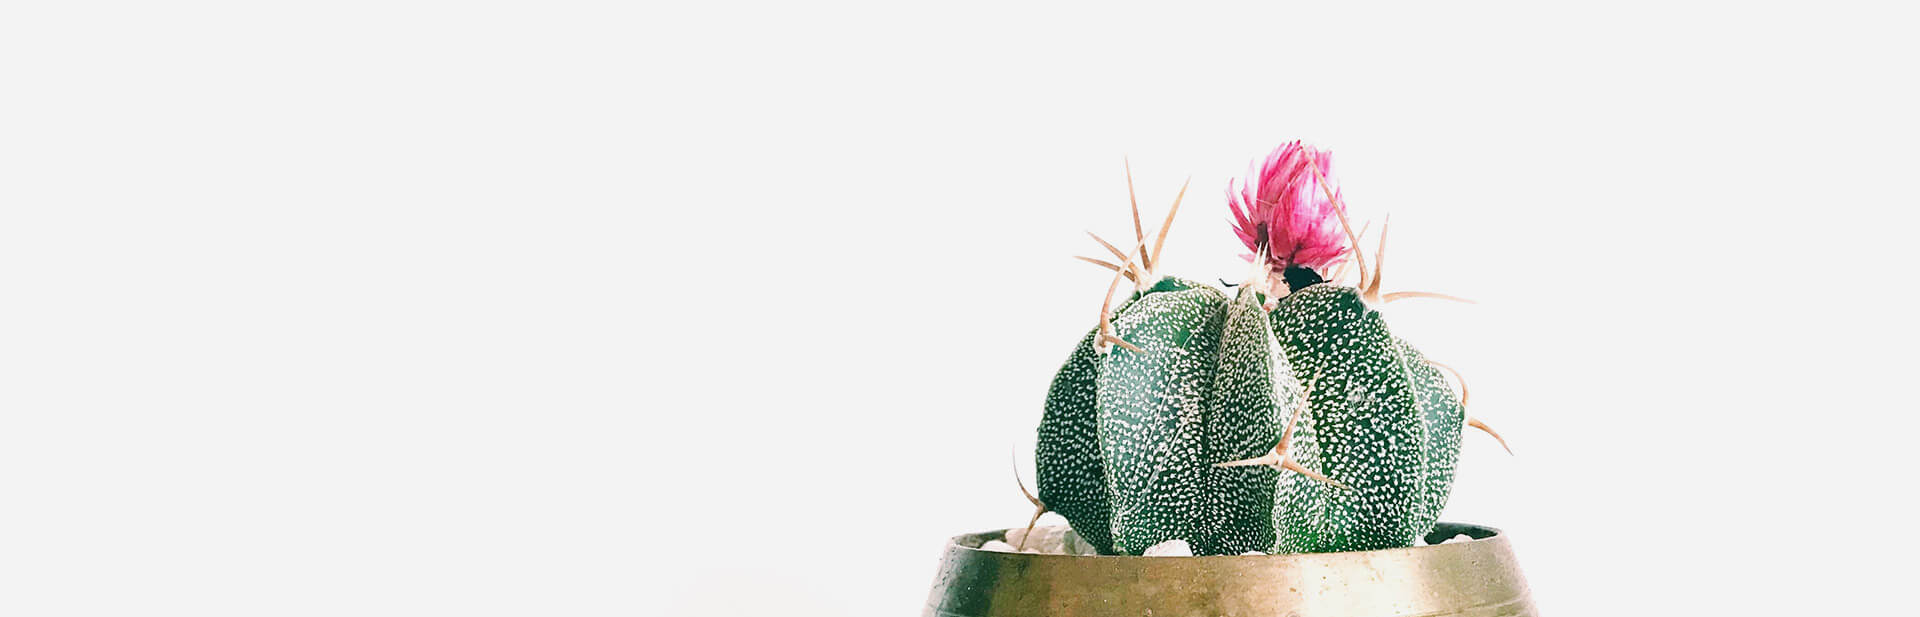
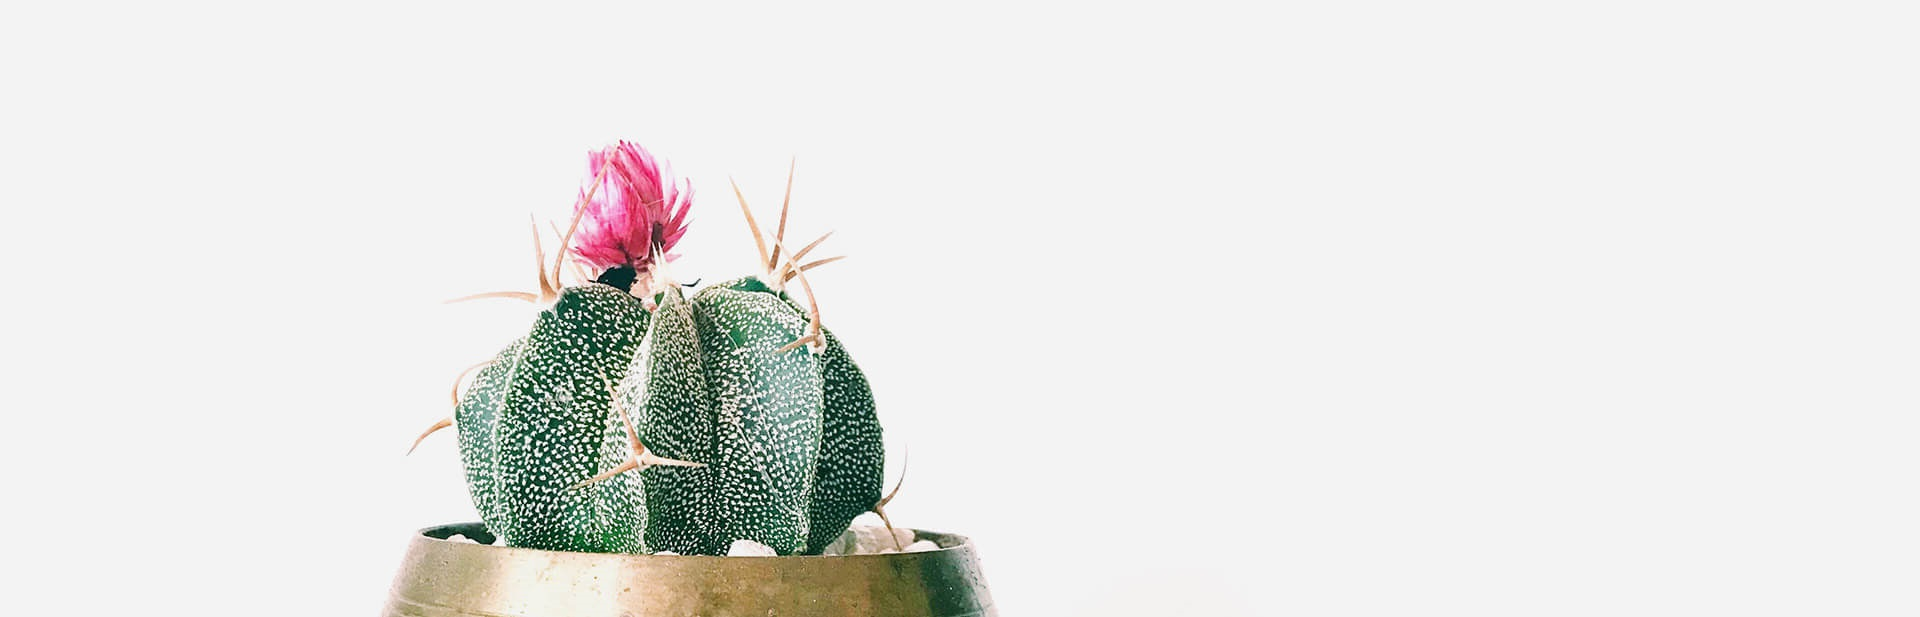
added text to carousel

Changed region(s): [[0.1875, 0.2156, 0.8125, 1.0]]

diff --git a/templates/home.html b/templates/home.html
@@ -11,14 +11,21 @@
       <li data-target="#carouselExampleCaptions" data-slide-to="3"></li>
     </ol>
     <div class="carousel-inner">
+      <div class="carousel__text">
+        <h1>Gardening is <strong>our passion</strong></h1>
+        <h6 class="carousel__text__subtitle">Grow with your garden. Start blooming. Gardening grows the spirit.</h6>
+      </div>
       <div class="carousel-item active">
-        <img src="{% static 'images/slider-1.jpg' %}" class="d-block carousel__img" alt="Flowered cactus">
+        <!-- <img src="{% static 'images/slider-1.jpg' %}" class="d-block carousel__img" alt="Flowered cactus"> -->
+        <img src="/static/images/slider-1.jpg" class="d-block carousel__img" alt="Flowered cactus">
       </div>
       <div class="carousel-item">
-        <img src="{% static 'images/slider-2.jpg' %}" class="d-block carousel__img" alt="Two pink tulips">
+        <!-- <img src="{% static 'images/slider-2.jpg' %}" class="d-block carousel__img" alt="Two pink tulips"> -->
+        <img src="/static/images/slider-2.jpg" class="d-block carousel__img" alt="Flowered cactus">
       </div>
       <div class="carousel-item">
-        <img src="{% static 'images/slider-3.jpg' %}" class="d-block carousel__img" alt="A woman holding flowers">
+        <!-- <img src="{% static 'images/slider-3.jpg' %}" class="d-block carousel__img" alt="A woman holding flowers"> -->
+        <img src="/static/images/slider-3.jpg" class="d-block carousel__img" alt="Flowered cactus">
       </div>
     </div>
     <a class="carousel-control-prev" href="#carouselExampleCaptions" role="button" data-slide="prev">

diff --git a/templates/base.html b/templates/base.html
@@ -86,7 +86,7 @@
     {% endif %}
     
     <!-- Message to be used with Javascript functions -->
-    <div class="alert alert-success alert-dismissible alert-danger hidden" role="alert" id="message-error">
+    <div class="alert alert-danger alert-dismissible fade show hidden" role="alert" id="message-error">
       <div class="container"></div>
       <button type="button" class="close" data-dismiss="alert" aria-label="Close">
         <span aria-hidden="true">&times;</span>

diff --git a/static/css/styles.css b/static/css/styles.css
@@ -200,6 +200,25 @@ footer {
   height: 57vh;
 }
 
+.carousel-inner {
+  position: relative;
+}
+
+.carousel__text {
+  position: absolute;
+  top: calc(50% - 90px);
+  z-index: 2;
+  font-family: 'Playfair Display', serif; 
+  max-width: 240px;
+  padding:20px;
+  
+}
+
+.carousel__text__subtitle {
+  display: none;
+  font-family: 'Lora', serif;
+}
+
 .carousel.slide {
   margin: auto;
   width:100%;

diff --git a/static/css/desktop.css b/static/css/desktop.css
@@ -1,5 +1,15 @@
 @media (min-width: 1025px) {
     /* Carousel */
+    .carousel__text {
+        top: calc(50% - 50px);
+        max-width: 290px;
+        right: 20%;
+    }
+
+    .carousel__text__subtitle {
+        display: inline;
+      }
+
     .carousel__img {
         width: 100%;
         height: auto;
